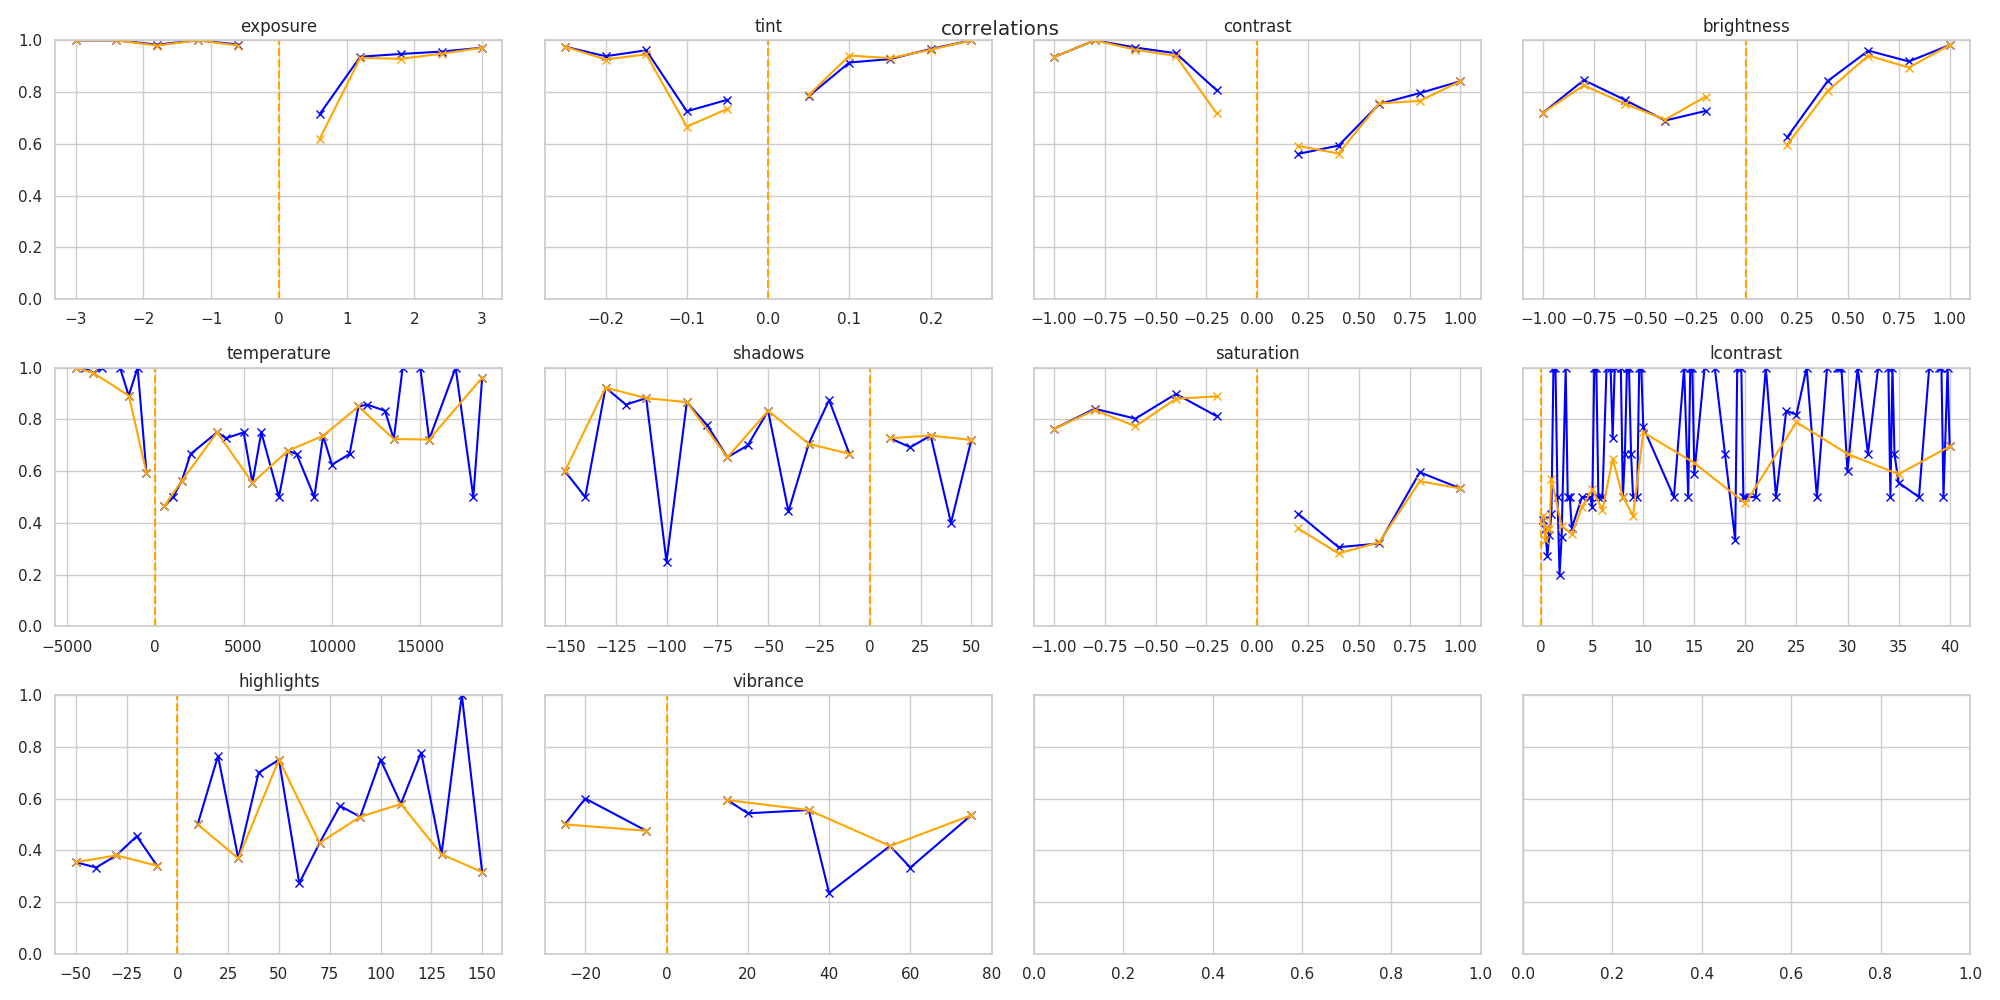
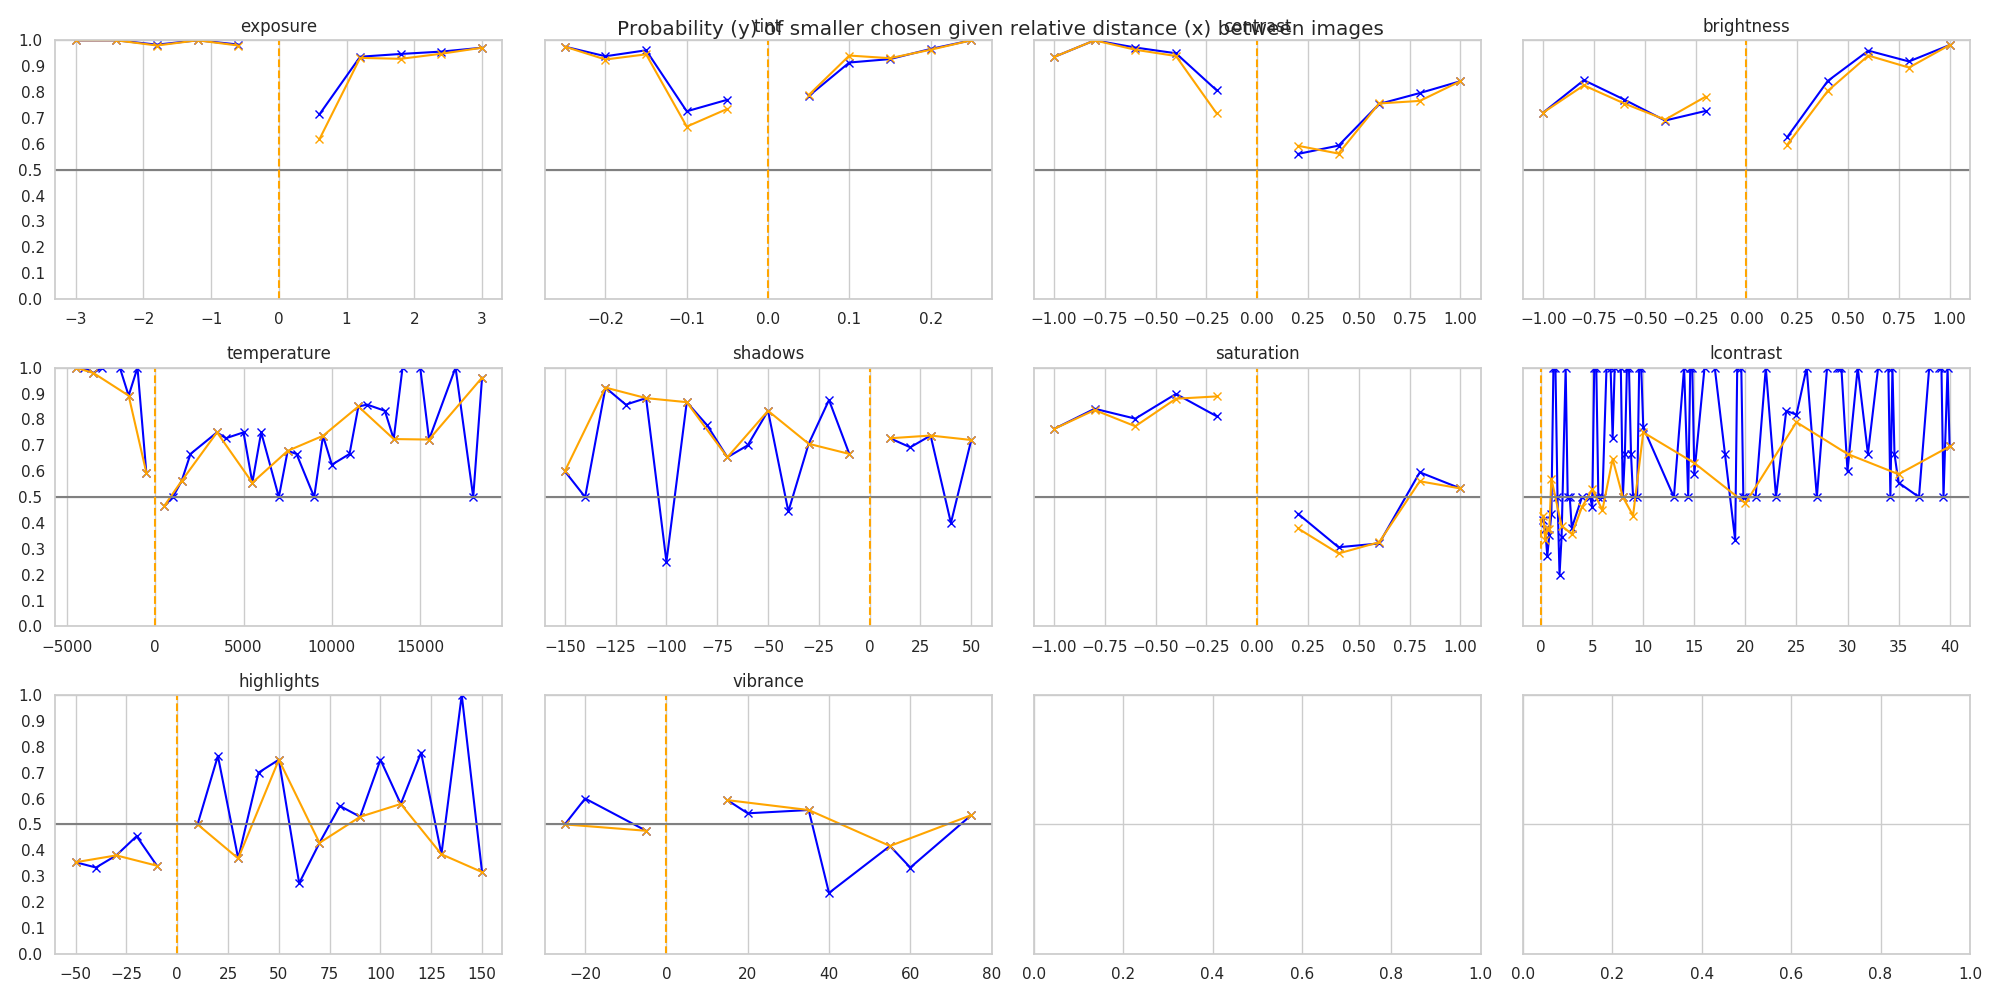
plotting update

diff --git a/survey/analyser.py b/survey/analyser.py
@@ -7,6 +7,7 @@ from pathlib import Path
 
 import httpagentparser
 import matplotlib.pyplot as plt
+import matplotlib.ticker as ticker
 import numpy as np
 import pandas as pd
 import redis
@@ -165,6 +166,27 @@ for key in parameter_range.keys():
         ("chosenChangesNeg", "occuredChangesNeg"),
         ("chosenChangesOrigPresentNeg", "occuredChangesOrigPresentNeg"),
     ]:
+        if "rel" in corr[0].lower():  # TODO implement
+            pass
+        elif not "rel" in corr[0].lower():
+            if "pos" in corr[0].lower():
+                for change in [val for val in parameter_range[key]["range"] if val >= parameter_range[key]["default"]]:
+                    if not change in analyzeDict[key][corr[0]]:
+                        analyzeDict[key][corr[0]][change] = 0
+                    if not change in analyzeDict[key][corr[1]]:
+                        raise KeyError(f"that's weird: {key} {analyzeDict[key][corr[1]].keys()} {change}")
+            elif "neg" in corr[0].lower():
+                if len(analyzeDict[key][corr[0]]) > 1:  # lcontrast and vibrance
+                    for change in [val for val in parameter_range[key]["range"] if val <= parameter_range[key]["default"]]:
+                        if not change in analyzeDict[key][corr[0]]:
+                            analyzeDict[key][corr[0]][change] = 0
+                        if not change in analyzeDict[key][corr[1]]:
+                            raise KeyError(f"that's weird: {key} {analyzeDict[key][corr[1]].keys()} {change}")
+            else:
+                raise NotImplementedError("you forgot what you thought wasn't necessary")
+        else:
+            raise "what?"
+
         for val in analyzeDict[key][corr[0]].keys():
             analyzeDict[key][corr[0]][val] /= analyzeDict[key][corr[1]][val]
 
@@ -179,7 +201,7 @@ axs_corr = [x for sublist in axs_corr for x in sublist]  # flatten
 
 f.suptitle("Probability of chosen, if displayed")
 f_orig.suptitle("Probability of chosen, if displayed (original image was present)")
-f_corr.suptitle("correlations")
+f_corr.suptitle("Probability (y) of smaller chosen given relative distance (x) between images")
 
 params = sorted(parameter_range.keys(), key=lambda key: binom_test(analyzeDict[key]["smallerChosen"], n=analyzeDict[key]["smallerChosen"] + analyzeDict[key]["largerChosen"]))
 for i, key in enumerate(params):
@@ -228,6 +250,15 @@ for i, key in enumerate(params):
     tmp = list(zip(*sorted(analyzeDict[key]["smallerChosenRelChangesOrigPresentPos"].items(), key=lambda k: k[0])))
     axs_corr[i].plot(tmp[0], tmp[1], "-x", color="orange", label="click percentage per editing distance, original present")
 
+    # axs_corr[i].grid(True, which="both")
+    # axs_corr[i].minorticks_on()
+    axs_corr[i].yaxis.set_ticks([0, 0.5, 1])
+    axs_corr[i].yaxis.set_major_formatter(ticker.FormatStrFormatter("%0.1f"))
+    axs_corr[i].yaxis.set_ticks([0.1, 0.2, 0.3, 0.4, 0.6, 0.7, 0.8, 0.9], minor=True)
+    axs_corr[i].yaxis.set_minor_formatter(ticker.FormatStrFormatter("%0.1f"))
+    # axs_corr[i].xaxis.set_ticks([])
+    # axs_corr[i].xaxis.set_ticks([])
+
     if len(analyzeDict[key]["smallerChosenRelChangesNeg"]) > 1:
         tmp = list(zip(*sorted(analyzeDict[key]["smallerChosenRelChangesNeg"].items(), key=lambda k: k[0])))
         tmp[0] = [val * -1 for val in tmp[0]]
@@ -237,32 +268,56 @@ for i, key in enumerate(params):
         tmp[0] = [val * -1 for val in tmp[0]]
         axs_corr[i].plot(tmp[0], tmp[1], "-x", color="orange")
 
+    axs_corr[i].axhline(y=0.5, linestyle="-", color="grey", label="equally likely clicked")
     axs_corr[i].axvline(x=0, linestyle="--", color="orange", label="original image")
 
     axs[i].set_title(key)
+    axs[i].set_xlim(left=min(parameter_range[key]["range"]), right=max(parameter_range[key]["range"]))
     axs[i].set_ylim(bottom=0, top=1)
     tmp = list(zip(*sorted(analyzeDict[key]["chosenChangesPos"].items(), key=lambda k: k[0])))
     axs[i].plot(tmp[0], tmp[1], "-x", color="blue", label="probability of chosen if displayed")
     sns.regplot(tmp[0], tmp[1], scatter=False, color="orange", label="linear regression", ax=axs[i])
+
+    axs[i].grid(True, which="both")
+    axs[i].minorticks_on()
+    axs[i].yaxis.set_ticks([0, 0.5, 1])
+    axs[i].yaxis.set_major_formatter(ticker.FormatStrFormatter("%0.1f"))
+    axs[i].yaxis.set_ticks([0.1, 0.2, 0.3, 0.4, 0.6, 0.7, 0.8, 0.9], minor=True)
+    axs[i].yaxis.set_minor_formatter(ticker.FormatStrFormatter("%0.1f"))
+    axs[i].xaxis.set_ticks([])
+    axs[i].xaxis.set_ticks(parameter_range[key]["range"], minor=True)
+    axs[i].xaxis.set_ticklabels(parameter_range[key]["range"], minor=True)
 
     tmp = list(zip(*sorted(analyzeDict[key]["chosenChangesNeg"].items(), key=lambda k: k[0])))
     if len(tmp) > 1:
         axs[i].plot(tmp[0], tmp[1], "-x", color="blue")
         sns.regplot(tmp[0], tmp[1], scatter=False, color="orange", ax=axs[i])
 
+    axs[i].axhline(y=0.5, linestyle="-", color="grey", label="equally likely clicked")
     axs[i].axvline(x=parameter_range[key]["default"], linestyle="--", color="orange", label="original image")
 
     axs_orig[i].set_title(key)
+    axs_orig[i].set_xlim(left=min(parameter_range[key]["range"]), right=max(parameter_range[key]["range"]))
     axs_orig[i].set_ylim(bottom=0, top=1)
     tmp = list(zip(*sorted(analyzeDict[key]["chosenChangesOrigPresentPos"].items(), key=lambda k: k[0])))
     axs_orig[i].plot(tmp[0], tmp[1], "-x", color="blue", label="probability of chosen if displayed")
     sns.regplot(tmp[0], tmp[1], scatter=False, color="orange", label="linear regression", ax=axs_orig[i])
 
+    axs_orig[i].grid(True, which="both")
+    axs_orig[i].minorticks_on()
+    axs_orig[i].yaxis.set_ticks([0, 0.5, 1])
+    axs_orig[i].yaxis.set_major_formatter(ticker.FormatStrFormatter("%0.1f"))
+    axs_orig[i].yaxis.set_ticks([0.1, 0.2, 0.3, 0.4, 0.6, 0.7, 0.8, 0.9], minor=True)
+    axs_orig[i].yaxis.set_minor_formatter(ticker.FormatStrFormatter("%0.1f"))
+    axs_orig[i].xaxis.set_ticks([])
+    axs_orig[i].xaxis.set_ticks(parameter_range[key]["range"], minor=True)
+    axs_orig[i].xaxis.set_ticklabels(parameter_range[key]["range"], minor=True)
+
     tmp = list(zip(*sorted(analyzeDict[key]["chosenChangesOrigPresentNeg"].items(), key=lambda k: k[0])))
     if len(tmp) > 1:
         axs_orig[i].plot(tmp[0], tmp[1], "-x", color="blue")
         sns.regplot(tmp[0], tmp[1], scatter=False, color="orange", ax=axs_orig[i])
-
+    axs_orig[i].axhline(y=0.5, linestyle="-", color="grey", label="equally likely clicked")
     axs_orig[i].axvline(x=parameter_range[key]["default"], linestyle="--", color="orange", label="original image")
 
     print()
@@ -334,4 +389,3 @@ print(sub_df.tail(3))
 
 print("---")
 print()
-# %%
